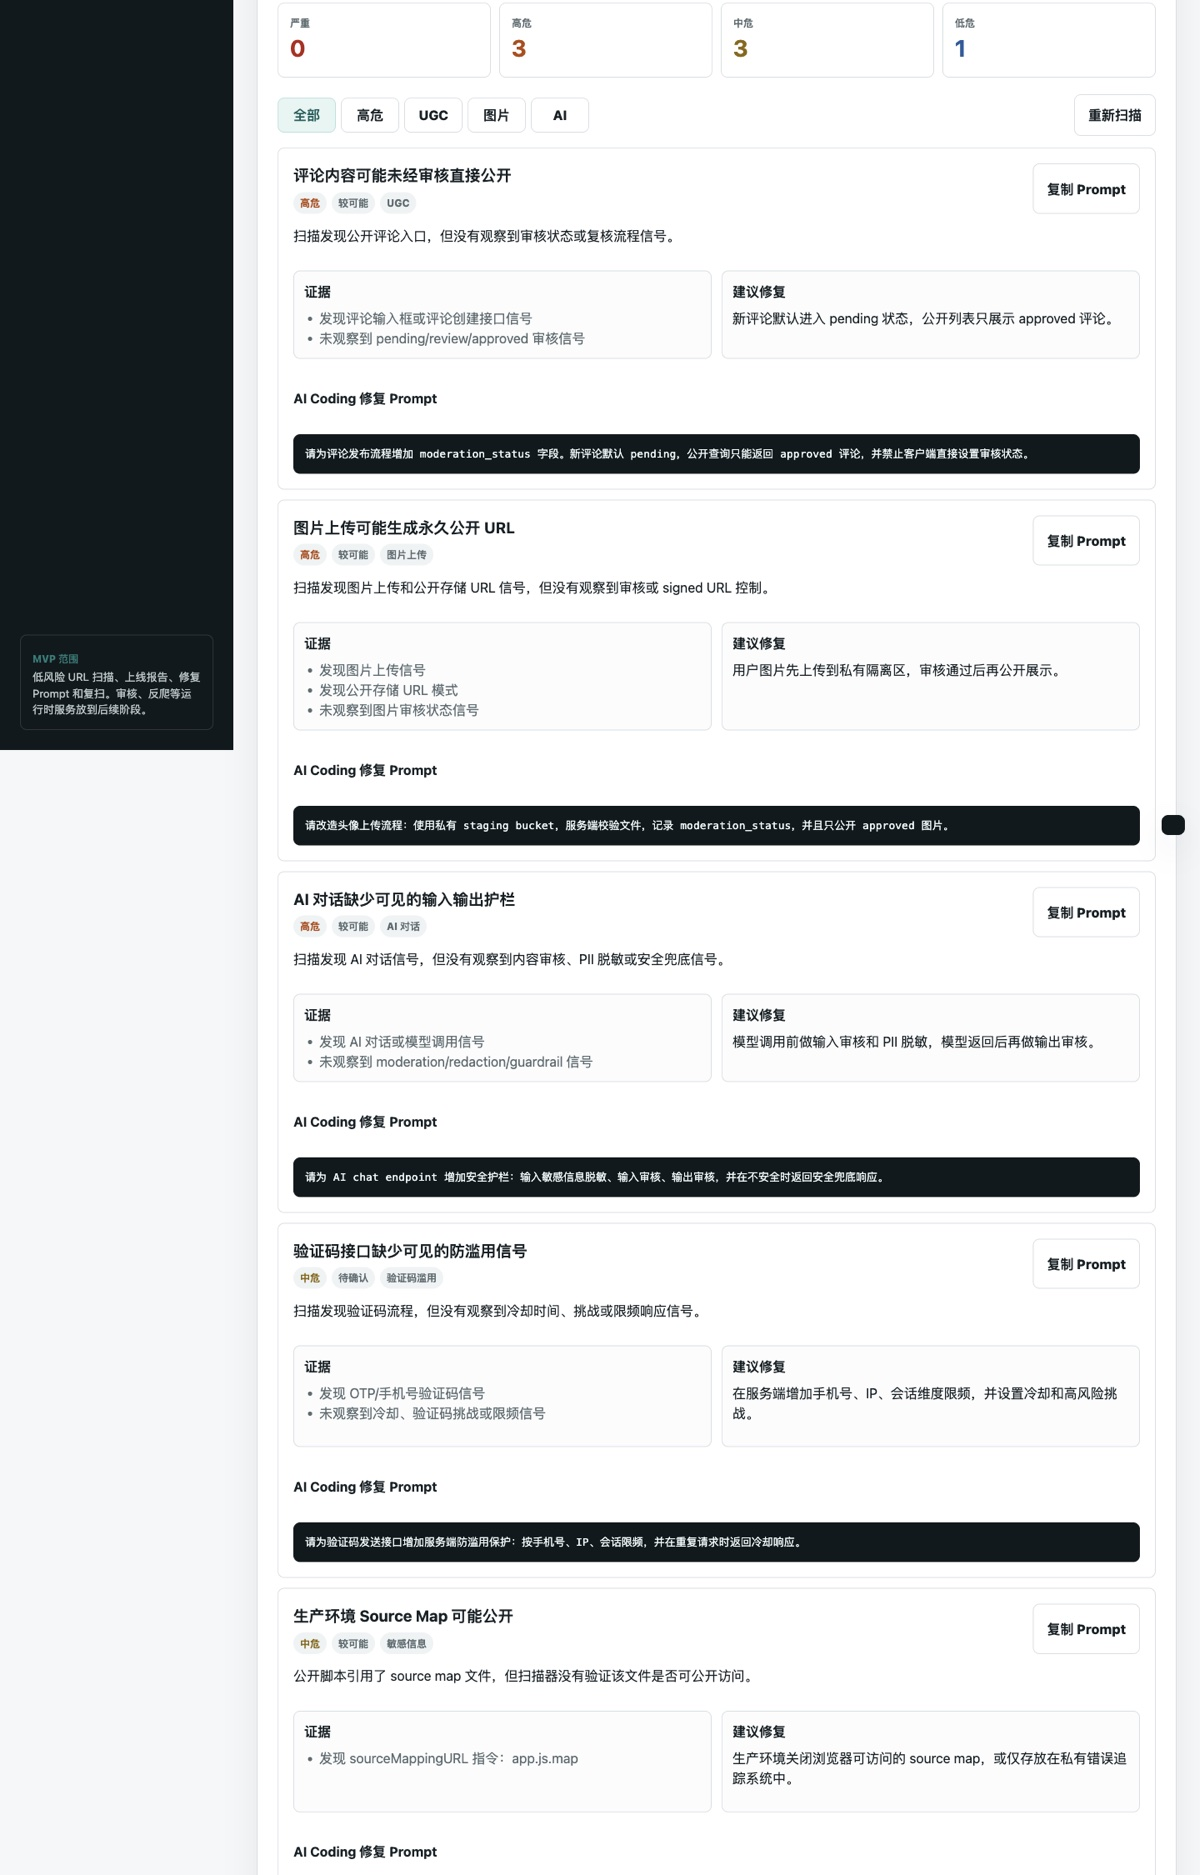
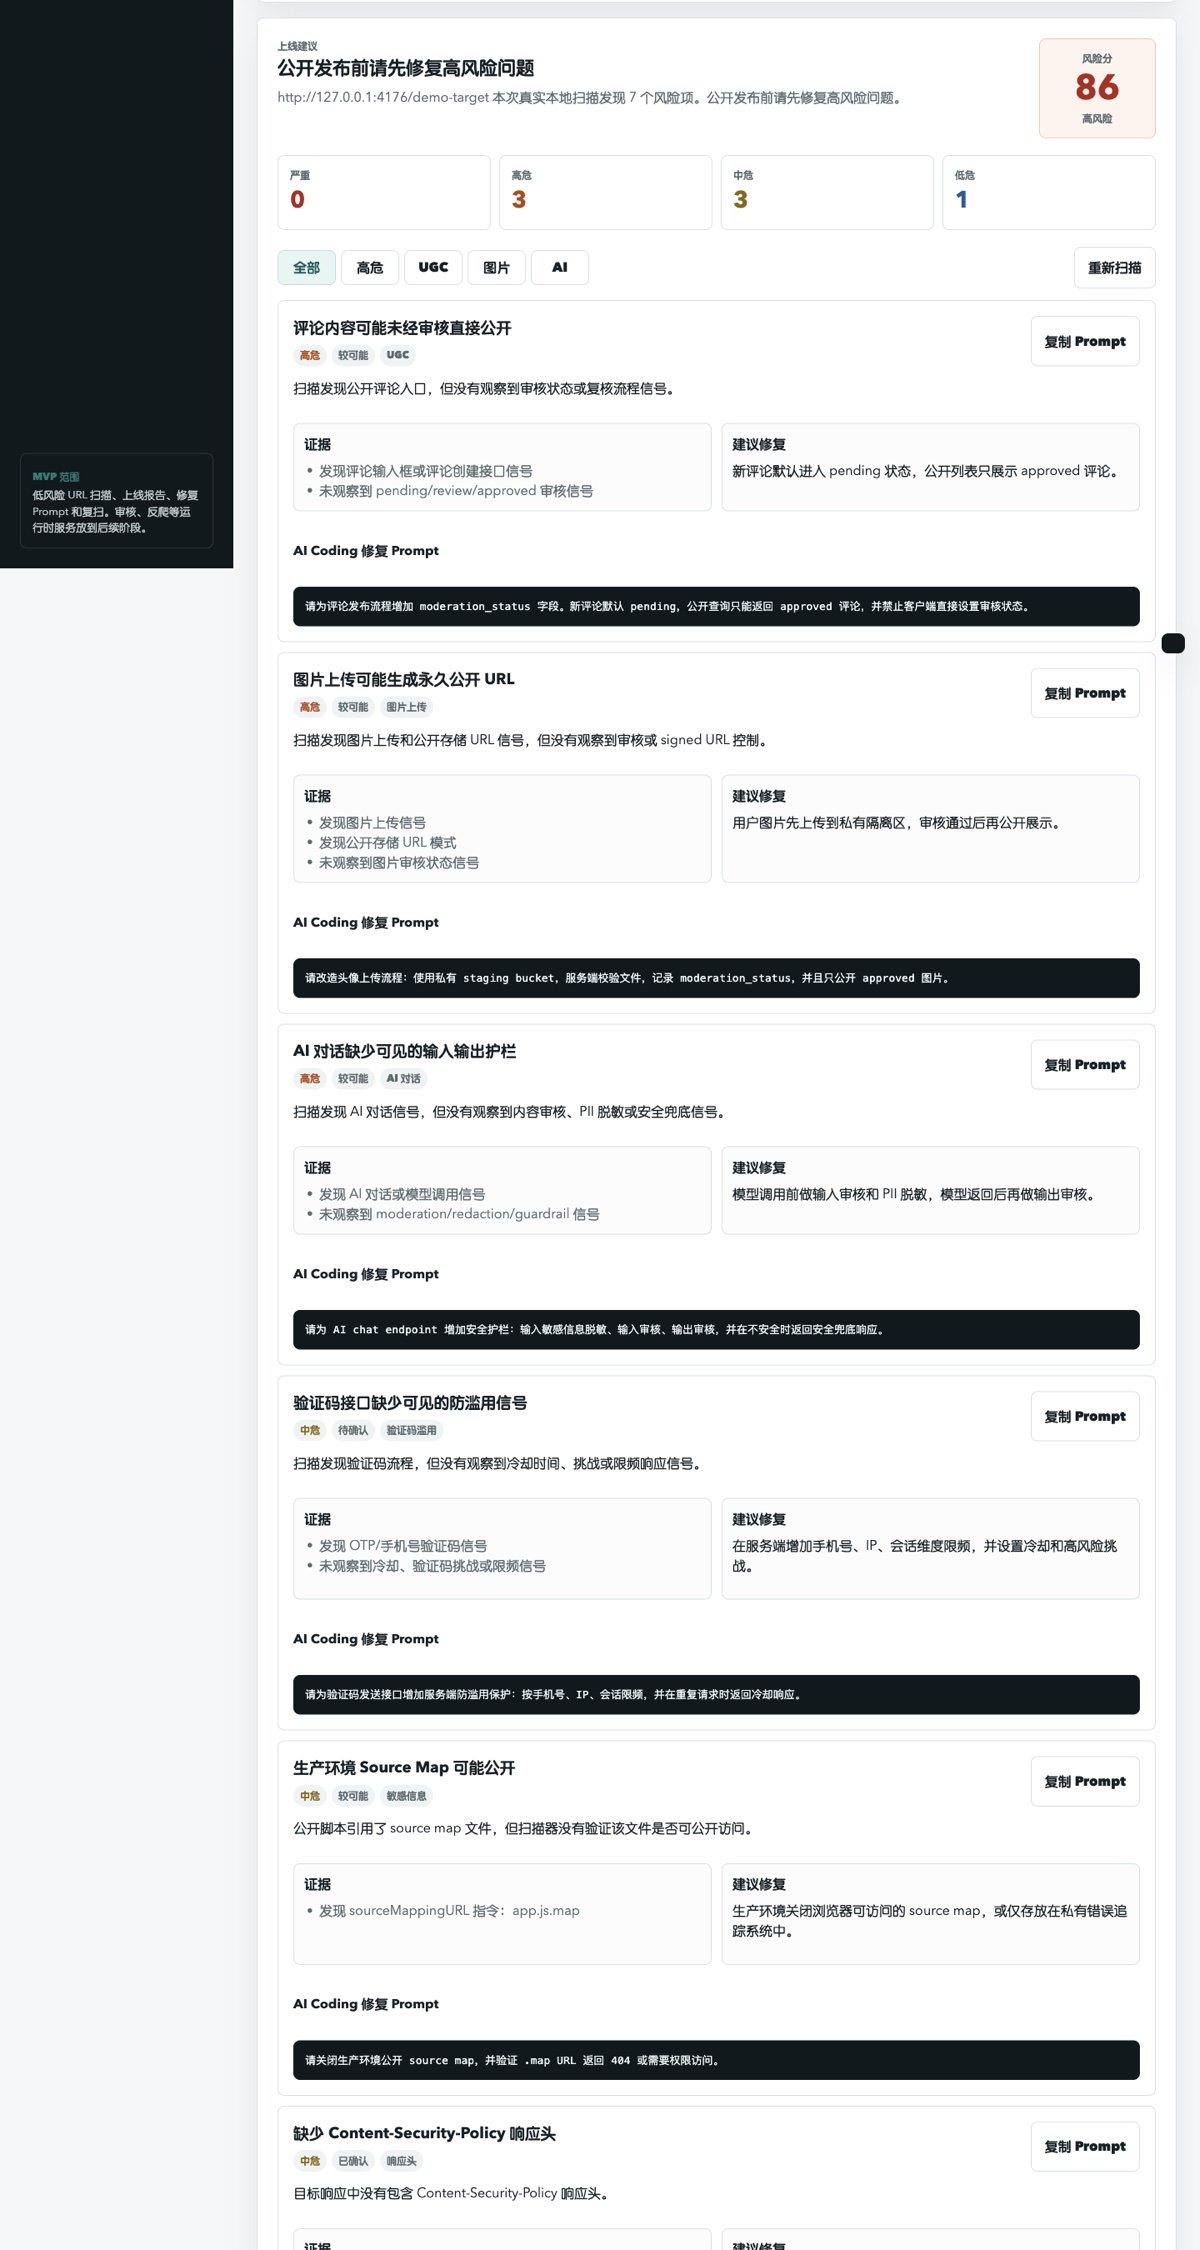
style: use a softer rounded typeface

diff --git a/styles.css b/styles.css
@@ -27,7 +27,7 @@ body {
   margin: 0;
   background: var(--bg);
   color: var(--ink);
-  font-family: Inter, ui-sans-serif, system-ui, -apple-system, BlinkMacSystemFont, "Segoe UI", sans-serif;
+  font-family: "Avenir Next", Avenir, "Yuanti SC", "Trebuchet MS", "PingFang SC", "Hiragino Sans GB", "Microsoft YaHei", system-ui, -apple-system, "Segoe UI", sans-serif;
   line-height: 1.5;
 }
 
